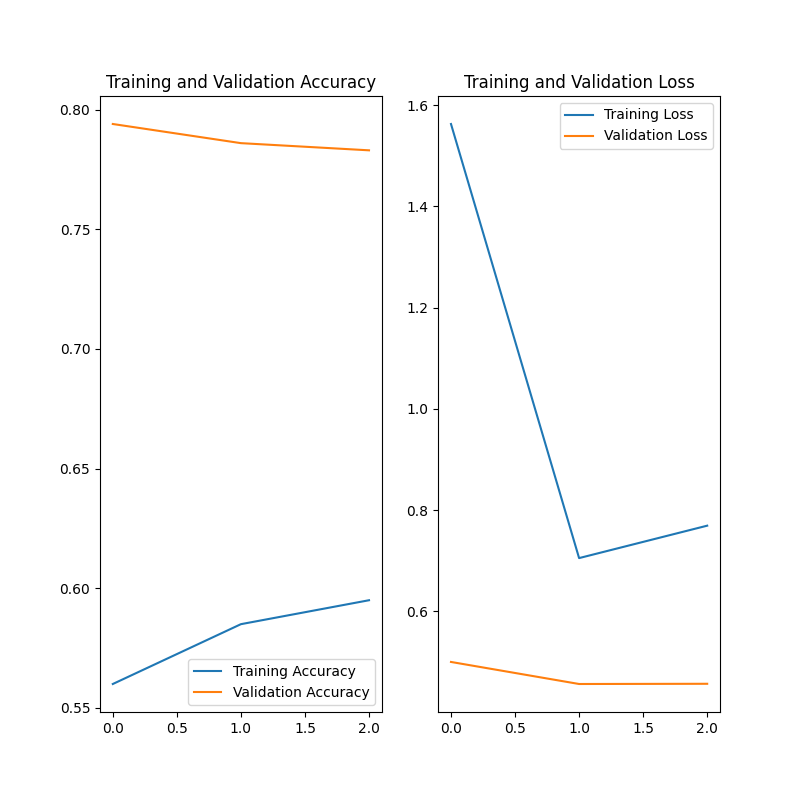
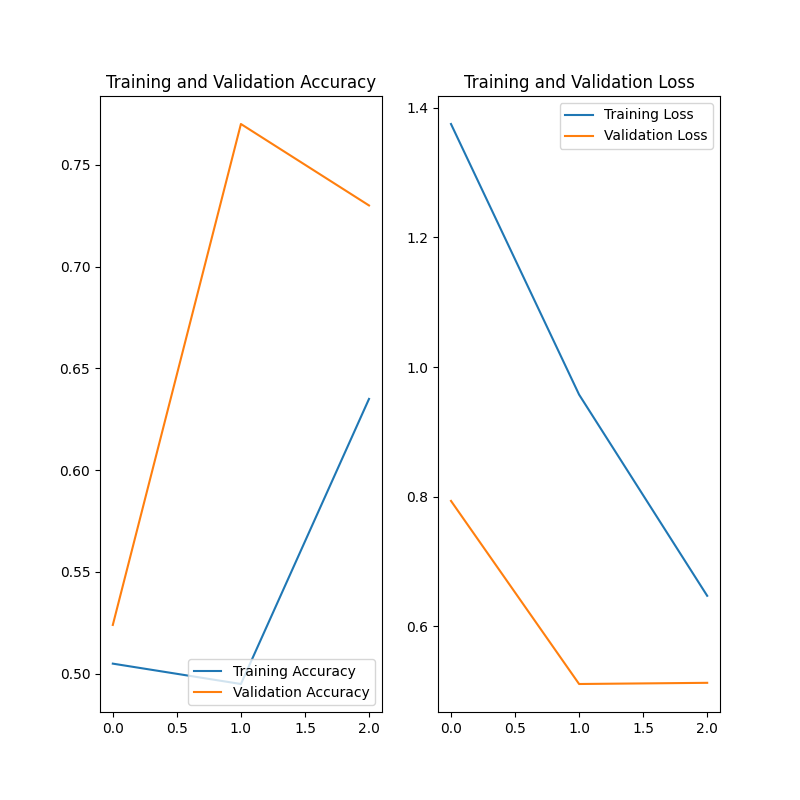
Add feature: localhost/model In website, prints model summary

diff --git a/falafel/templates/model.html b/falafel/templates/model.html
@@ -1,0 +1,34 @@
+<!-- templates/index.html -->
+<!DOCTYPE html>
+<html lang="en">
+<head>
+    <meta charset="UTF-8">
+    <meta name="viewport" content="width=device-width, initial-scale=1.0">
+    <title>Keras Model Visualizer</title>
+    <script src="https://cdn.plot.ly/plotly-latest.min.js"></script>
+    <style>
+        body { font-family: Arial, sans-serif; line-height: 1.6; padding: 20px; }
+        h1, h2 { color: #333; }
+        pre { background-color: #f4f4f4; padding: 15px; border-radius: 5px; overflow-x: auto; }
+        .plot { width: 100%; height: 500px; }
+    </style>
+</head>
+<body>
+    <h1>Keras Model Visualizer</h1>
+    
+    <h2>Model Summary</h2>
+    <pre>{{ model_summary }}</pre>
+    
+    <h2>Training History</h2>
+    <div id="accuracyPlot" class="plot"></div>
+    <div id="lossPlot" class="plot"></div>
+
+    <script>
+        var accData = JSON.parse('{{ acc_plot | safe }}');
+        Plotly.newPlot('accuracyPlot', accData.data, accData.layout);
+
+        var lossData = JSON.parse('{{ loss_plot | safe }}');
+        Plotly.newPlot('lossPlot', lossData.data, lossData.layout);
+    </script>
+</body>
+</html>

diff --git a/falafel/app.py b/falafel/app.py
@@ -5,11 +5,17 @@ import keras.utils as image
 from PIL import Image
 from logging.handlers import RotatingFileHandler
 from werkzeug.utils import secure_filename
-import numpy as np
 import io
+import json
 import logging
+import numpy as np
+import pickle
+import plotly
+import plotly.graph_objs as go
 import os
 import time
+
+
 
 import falafel.dl_model.constants as constants
 import falafel.dl_model.main as dl_model
@@ -28,6 +34,7 @@ def create_app():
     IMG_SHAPE  = constants.IMG_SHAPE
   
     modelPath = constants.MODEL_PATH
+    history_file = constants.MODEL_HISTORY_PATH
 
     UPLOAD_FOLDER = constants.UPLOAD_FOLDER
     ALLOWED_EXTENSIONS = {'png', 'jpg', 'jpeg', 'gif', 'bmp', 'tiff'}
@@ -179,6 +186,35 @@ def create_app():
             app.logger.error(f"Error in upload_file: {str(e)}")
             return jsonify({'error': str(e)}), 500
 
+
+    ## Rout for model information
+    @app.route('/model')
+    def model_info():
+        # Get model summary
+        model_summary = []
+        model.summary(print_fn=lambda x: model_summary.append(x))
+        model_summary = '\n'.join(model_summary)
+
+        # Import Model history
+        with open(history_file, "rb") as file_pi:
+            history = pickle.load(file_pi)
+
+
+        # Create accuracy plot
+        acc_fig = go.Figure()
+        acc_fig.add_trace(go.Scatter(y=history['acc'], name="Train Accuracy"))
+        acc_fig.add_trace(go.Scatter(y=history['val_acc'], name="Validation Accuracy"))
+        acc_fig.update_layout(title="Model Accuracy", xaxis_title="Epoch", yaxis_title="Accuracy")
+        acc_plot = json.dumps(acc_fig, cls=plotly.utils.PlotlyJSONEncoder)
+
+        # Create loss plot
+        loss_fig = go.Figure()
+        loss_fig.add_trace(go.Scatter(y=history['loss'], name="Train Loss"))
+        loss_fig.add_trace(go.Scatter(y=history['val_loss'], name="Validation Loss"))
+        loss_fig.update_layout(title="Model Loss", xaxis_title="Epoch", yaxis_title="Loss")
+        loss_plot = json.dumps(loss_fig, cls=plotly.utils.PlotlyJSONEncoder)
+
+        return render_template('model.html', model_summary=model_summary, acc_plot=acc_plot, loss_plot=loss_plot)
 
 
     return app

diff --git a/falafel/dl_model/constants.py b/falafel/dl_model/constants.py
@@ -57,6 +57,10 @@ PREDICTION_DIR_NAME = "prediction_data"                                         
 PREDICTION_DIR = os.path.join(DL_MODEL_SUBDIR, PREDICTION_DIR_NAME)                 # Defines the location of the prediction folder (images to be predicted)
 
 UPLOAD_FOLDER = 'uploads'                                                           # Defines the name of the folder where uploaded images (from website) are stored
+
+MODEL_HISTORY_DIR = os.path.join(MODEL_DIR, 'model_history')                        # Defines the location of the model history folder
+MODEL_HISTORY_PATH = os.path.join(MODEL_HISTORY_DIR, 'history.pkl')                 # Defines the location of the model history file
+
 ## DATABASE
 
 
@@ -82,6 +86,8 @@ os.makedirs(LOG_DIR, exist_ok=True)
 os.makedirs(os.path.join(LOG_DIR, 'plots'), exist_ok=True)
 
 os.makedirs(UPLOAD_FOLDER, exist_ok=True)
+os.makedirs(MODEL_HISTORY_DIR, exist_ok=True)
+
 
 if OS_SYSTEM == "Docker":
     os.makedirs(DATABASE_DIR, exist_ok=True)

diff --git a/falafel/dl_model/trainModel.py b/falafel/dl_model/trainModel.py
@@ -3,6 +3,7 @@ import warnings
 
 import matplotlib.pyplot as plt
 import numpy as np
+import pickle
 
 import tensorflow as tf
 # from tensorflow.python.keras import layers
@@ -27,6 +28,7 @@ def main():
 
     train_dir = constants.TRAIN_DIR
     validation_dir = constants.VALIDATION_DIR
+    history_file = constants.MODEL_HISTORY_PATH
 
     EPOCHS = constants.EPOCHS
     BATCH_SIZE = constants.BATCH_SIZE  # Number of training examples to process before updating our models variables
@@ -76,13 +78,17 @@ def main():
 
     model = tf.keras.models.load_model(constants.MODEL_PATH)
 
-
-    
-
     print("\nModel Summary:\n")
     model.summary()
 
+
+#### Training
+
     history = model.fit(train_generator, validation_data = validation_generator, steps_per_epoch = n_steps_epoch, epochs = EPOCHS)
+
+    with open(history_file, 'wb') as file_pi:
+        pickle.dump(history.history, file_pi)
+
 
 
 
